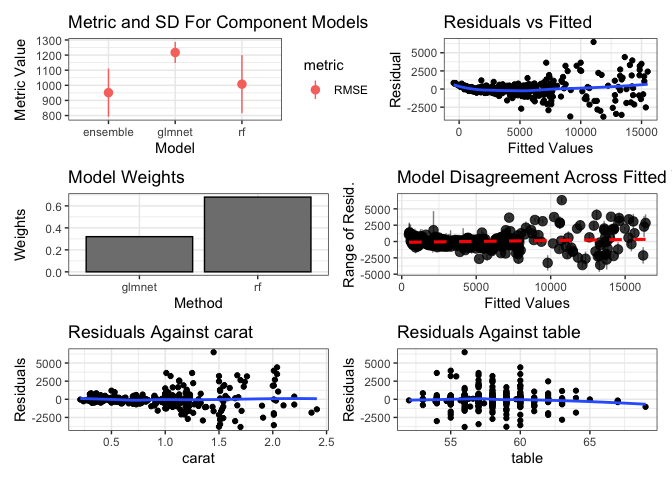
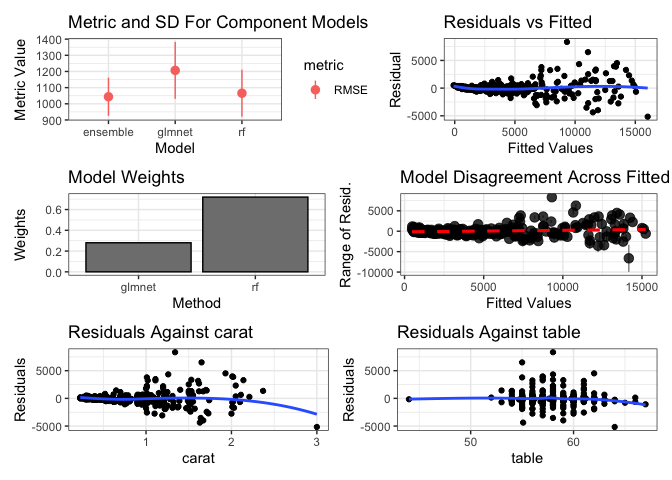
kable

diff --git a/README.md b/README.md
@@ -46,10 +46,10 @@ print(summary(models))
 #> The following models were ensembled: rf, glmnet  
 #> 
 #> Model accuracy:
-#>    model_name metric    value        sd
-#>        <char> <char>    <num>     <num>
-#> 1:         rf   RMSE 1007.595 192.05082
-#> 2:     glmnet   RMSE 1217.374  69.54145
+#>    model_name metric    value       sd
+#>        <char> <char>    <num>    <num>
+#> 1:         rf   RMSE 1065.605 145.4863
+#> 2:     glmnet   RMSE 1206.800 175.7538
 ```
 
 Then, use caretEnsemble to make a greedy ensemble of these models
@@ -68,17 +68,17 @@ print(greedy_stack)
 #> Resampling results:
 #> 
 #>   RMSE      Rsquared  MAE     
-#>   951.4063  0.947765  545.1398
+#>   1043.649  0.92586   543.4189
 #> 
 #> Tuning parameter 'max_iter' was held constant at a value of 100
 #> 
 #> Final model:
 #> Greedy MSE
-#> RMSE:  959.2989 
+#> RMSE:  1044.709 
 #> Weights:
 #>        [,1]
-#> rf     0.68
-#> glmnet 0.32
+#> rf     0.72
+#> glmnet 0.28
 ggplot2::autoplot(greedy_stack, training_data = dat, xvars = c("carat", "table"))
 ```
 
@@ -100,8 +100,8 @@ print(rf_stack)
 #> Summary of sample sizes: 400, 400, 400, 400, 400 
 #> Resampling results:
 #> 
-#>   RMSE      Rsquared   MAE     
-#>   1030.494  0.9376481  541.5582
+#>   RMSE     Rsquared   MAE     
+#>   1049.47  0.9219408  522.2029
 #> 
 #> Tuning parameter 'mtry' was held constant at a value of 2
 #> 
@@ -113,8 +113,8 @@ print(rf_stack)
 #>                      Number of trees: 500
 #> No. of variables tried at each split: 2
 #> 
-#>           Mean of squared residuals: 985743.6
-#>                     % Var explained: 93.99
+#>           Mean of squared residuals: 1188152
+#>                     % Var explained: 91.49
 ggplot2::autoplot(rf_stack, training_data = dat, xvars = c("carat", "table"))
 ```
 
